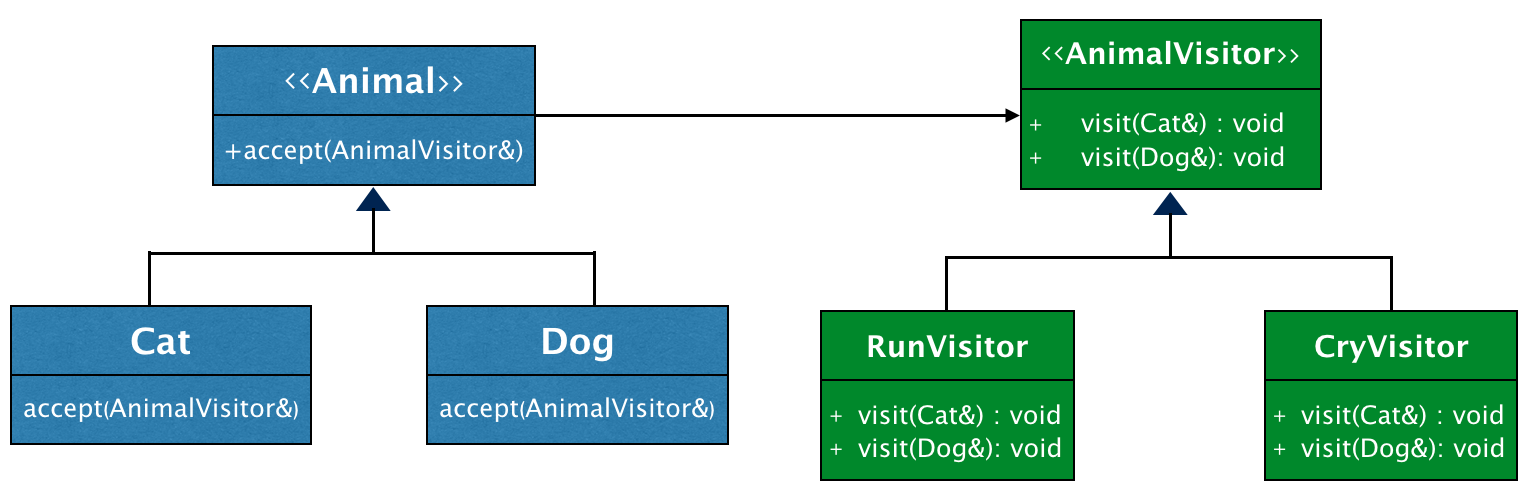
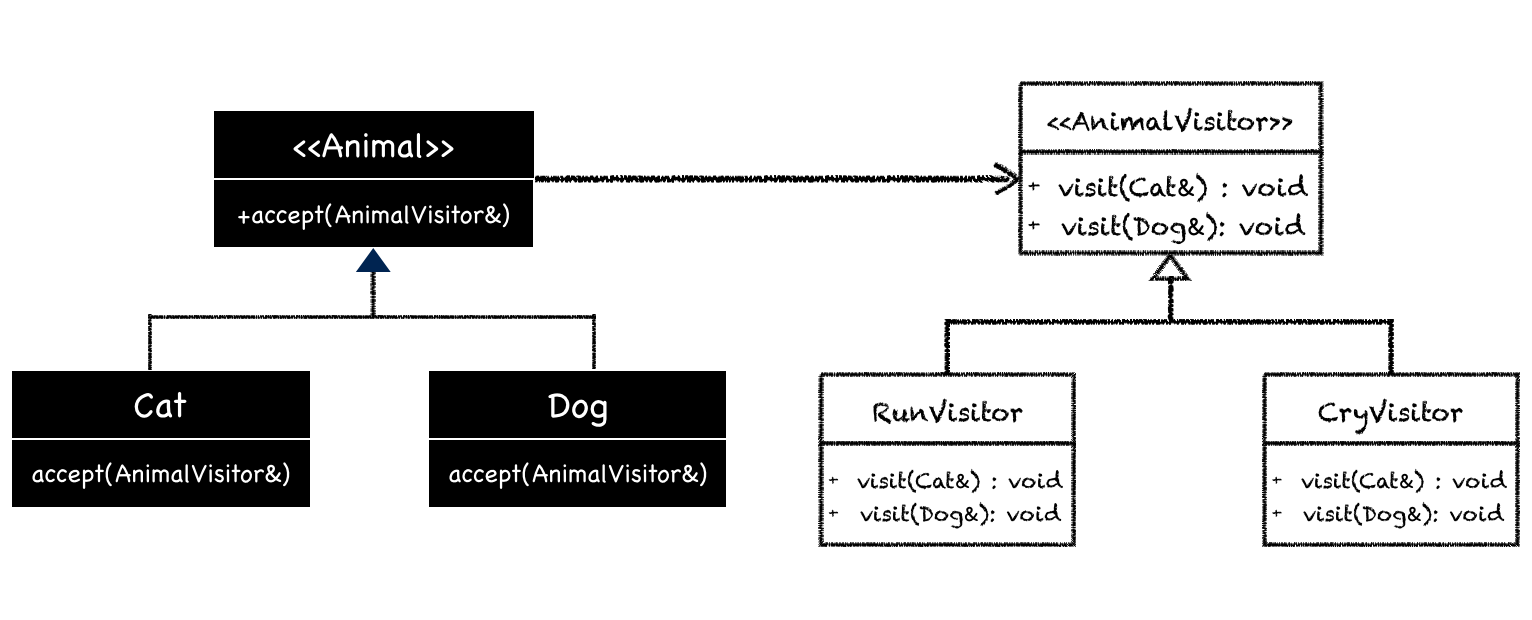
adjust the format of pictures

diff --git a/doc/tlp.md b/doc/tlp.md
@@ -4,20 +4,20 @@
 
 ## 前言
 
-熟悉C\++的程序员都知道，C\++是一门多范式编程语言，支持面向过程、面向对象、泛型编程以及函数式编程范式。然而提到C\++模板元编程，在很多人心里这却似乎是C\++里的一种黑魔法：它很难学习，一旦进入这个领域曾经那些熟悉的东西（if，for...）都不再灵验；它很强大，但现实中却鲜见有人用它来解决实际问题，除过偶尔在一些编码练习中被某些C\++狂热粉当做奇淫巧技拿出来秀秀肌肉。
+熟悉C\++的程序员都知道，C\++是一门多范式编程语言，支持面向过程、面向对象、泛型编程以及函数式编程范式。然而提到C\++模板元编程，在很多人心里这却是C\++里的黑魔法：它很难学习，一旦进入这个领域曾经那些熟悉的东西（if，for...）都不再灵验；它很强大，但现实中却鲜见有人用它来解决实际问题，除过偶尔在一些编码练习中被某些C\++狂热粉当做奇淫巧技拿出来秀秀肌肉。
 
 其实模板元编程是C\++所支持的一种非常强大的计算能力，它是使用C\++开发高质量库和框架所离不开的一项武器。
 
-掌握C\++模板元编程，可以帮助你做到：
+掌握C\++模板元编程，至少可以在以下场合帮助到你：
 
 - 实现高扩展性，并且兼具高性能的库
-- 实现更加灵活且易于使用的框架
+- 实现灵活且易于使用的框架
 - 实现基于C\++的内部DSL（Domain Special Language）
-- 帮助更好地理解并使用模板和泛型编程，更深入地使用C\++ STL库的一些高级特性
+- 帮助更深入地理解并使用模板和泛型编程，更好地去使用C\++ STL库中的一些高级特性
 
-如果你是一个C\++的库或框架的开发者，了解和掌握一些模板元编程的知识，可能会让你的作品更易于扩展、拥有更易用的接口，甚至更高的运行时效率。而即使你只使用C\++设计和开发应用程序，了解模板元编程也会帮助你更好的去使用STL库的各种特性，甚至帮助你的局部设计做的更加漂亮。
+如果你是一个C\++的库或框架的开发者，了解和掌握一些模板元编程的知识，可以让你的作品更易于扩展、拥有更易用的接口，甚至更高的运行时效率。而即使你只使用C\++设计和开发应用程序，了解模板元编程也会帮助你更好的去使用STL库的各种特性，甚至帮助你的局部设计做的更加漂亮。
 
-实际上C\++模板元编程技术已经渗透在我们日常使用的各种库和框架中，例如STL库以及各种xUnit测试框架和mock框架。可以说，模板元编程是中级C\++程序员迈向高级的必经之路！
+实际上C\++模板元编程技术已经渗透在我们日常使用的各种库和框架中，例如我们最常使用的STL库以及各种xUnit测试框架和mock框架。可以说，模板元编程是中级C\++程序员迈向高级的必经之路！
 
 然而现实是，C\++模板元编程的学习之旅却并不平坦。
 
@@ -29,24 +29,24 @@
 	介绍C++模板知识最全面的一本书，涉及到了模板各个方面的基础知识和应用技巧。由于元编程并不是此书重点，所以仅有短短一章列举了一些利用模板元编程做数值计算的例子。现实中模板元编程很少用来做数值计算，更多被用来做类型计算和代码生成，书中却涉及甚少。
 
 - 《Modern C\++ Design》
-	介绍如何使用模板进行C\++高阶设计的一本书。介绍了`TypeLists`的概念，作为一种重要的编译时数据结构，是元编程的基础。但遗憾作者并没有显示的提出元编程的概念，也没有对C\++编译时运算特征进行总结和提炼。最后由于此书基于的C\++ 98标准对于模板以及编译期类型计算支持上的欠缺，书中介绍的不少实现比较迂回复杂。
+	介绍如何使用模板进行C\++高阶设计的一本书。介绍了`TypeLists`的概念，作为一种重要的编译时数据结构，是元编程的基础。但遗憾作者并没有明确的提出元编程的概念，也没有对C\++编译时的运算特征进行总结和提炼。最后由于此书基于的C\++ 98标准对于模板以及编译期类型计算支持上的欠缺，书中介绍的不少实现比较迂回复杂。
 
 - 《C\++模板元编程》
-	正式介绍C\++模板元编程的一本书，引入了元函数的概念，对基于模板的函数式计算进行了规范化，发挥了编译期元函数可组合的优势。遗憾的是，此书只能算是boost中模板元编程库（mpl）的用户手册，基本上是在讲mpl库的用户接口和使用方法，没有涉及库的实现细节。现实中我们采用元编程解决问题，一般不会引用boost这么重的库，往往只会在某一局部借鉴类似的设计技巧。所以对于元编程来说，授之以渔的意义远大于授之以鱼。另外由于boost mpl库中用了大量C\++预处理期代码生成技术，导致想通过看mpl的源码掌握模板元编程的人基本是会陷入到一堆宏中，对于学习元编程增加了非常多的干扰因素。
+	正式介绍C\++模板元编程的一本书，引入了元函数的概念。借助对基于模板的函数式计算的规范化，发挥了编译期元函数可组合的优势。遗憾的是，此书只能算是boost中模板元编程库（mpl）的用户手册，基本上是在讲mpl库的用户接口和使用方法，没有涉及库的实现细节。现实中我们采用元编程解决问题，一般不会引用boost这么重的库，往往只会在某一局部借鉴类似的设计技巧。所以对于元编程来说，授之以渔的意义远大于授之以鱼。另外由于boost mpl库中用了大量C\++预处理期代码生成技术，导致通过阅读mpl源码去掌握模板元编程的同学一上来就陷入到一堆宏中，对于学习元编程增加了非常多的干扰因素。
 
-基于以上原因，我使用C\++11实现了一个C\++模板元编程的库：[TLP ](https://github.com/MagicBowen/tlp)[(https://github.com/MagicBowen/tlp)]()，然后再通过这一系列文章结合TLP库中的代码示例来为大家介绍C\++模板元编程的各方面知识。
+基于以上原因，我基于C\++11标准实现了一个模板元编程的基础库：[TLP ](https://github.com/MagicBowen/tlp)[(https://github.com/MagicBowen/tlp)]()，然后再通过本手册来为大家全面介绍C\++模板元编程的基本知识和使用技巧。
 
 TLP库包含以下内容：
 
 - 基本的编译期数据类型和算法；
 - 基本的编译期数据结构TypeList，以及针对它的各种基本算法函数：length、append、erase、replace、unique、belong、comb...
 - 基于TypeList的各种高阶函数，如 any，all，sort、transform、map，filter，fold...
-- 进行模板元编程的常用辅助函数，如 IsEqual，IfThenElse，Print...
-- 一些有用的编译期Traits工具；
-- 进行编译期函数定义的各种辅助工具；
-- 一个面向模板元编程的测试框架，所有的测试用例执行在C\++的编译期，我们使用它来对TLP进行测试；
+- 辅助模板元编程的常用函数，如 IsEqual，IfThenElse，Print...
+- 一些有用的编译期Traits工具，如 IsBaseOf，IsConvertible，IsBuiltIn...
+- 一些常用的元编程模式，如 “元函数转发”等；
+- 一个面向模板元编程的测试框架，用它描述的所有测试用例执行在C\++的编译期，我们使用它来对TLP进行测试；
 
-除此之外，TLP库中还包含了如下演示如何在现实中使用TLP库进行模板元编程的示例代码，分别是：
+除此之外，TLP库中还包含了如下示例代码，用来演示如何在现实中应用模板元编程和TLP库：
 
 - 示范了如何使用模板元编程做纯编译期计算，完成一个自动数三角形的程序；
 - 示范了如何使用模板元编程技术来实现代码生成，自动创建visitor设计模式；
@@ -54,17 +54,17 @@ TLP库包含以下内容：
 
 上面提到的TypeList以及使用代码生成来创建visitor设计模式的原创者是《Modern C\++ Design》的作者Andrei Alexandrescu。在TLP中我用C\++11对TypeList及其算法进行了改写，并进行了高阶函数的扩展。得益于C\++11标准对模板元编程的更好支持，新的实现比起原来的更加清晰和简洁。
 
-示例代码中利用模板元编程创建有限状态机DSL的例子来自于《C++模板元编程》一书，为了更好的展示其实现，我用TypeList对其进行了改写。
+示例代码中利用模板元编程创建有限状态机DSL的设计最初来自于《C++模板元编程》一书，为了让其更好被理解，我对例子以及代码进行了较大的改编。
 
-除了上面的例子，本文还介绍了我自己开发的面向C\++模块或子系统级别的FT（Functional Test）测试框架[dates](https://github.com/MagicBowen/dates)，重点展示了它如何使用模板元编程来进行类型萃取、类型选择以及类型校验，最终使得框架变得更易用、更高效以及更安全。这些技巧可以帮助到大家更好地使用模板元编程去解决现实问题。
+除了上面的例子，本手册中还介绍了我自己开发的针对C\++模块和子系统FT（Functional Test）级别的测试框架[dates](https://github.com/MagicBowen/dates)，展示了它如何使用模板元编程来进行类型萃取、类型选择以及类型校验，最终使得框架变得更易用、更高效以及更安全。这些技巧可以帮助到大家更好地使用模板元编程去解决现实问题。
 
-最后，TLP库自身的测试通过一个原创的C\++模板元编程测试框架。该框架专门针对C\++编译期计算进行测试，它的用法和常见的xUnit测试框架类似，但有趣的是使用该框架所描述的所有测试用例的执行发生在C\++编译期。本文会专门介绍该框架的一些实现细节。
+最后，TLP库自身的测试通过一个原创的C\++模板元编程测试框架。该框架专门针对C\++编译期计算进行测试，它的用法和常见的xUnit测试框架类似，但有趣的是使用该框架描述的所有测试用例的执行发生在C\++编译期。本文会专门介绍该框架的一些实现细节。
 
 C\++模板元编程当年被提出来的时候，函数式编程还没有像今天这样被更多的人所了解和接受，当时的C\++标准和编译器对模板和编译期计算的支持也非常有限。然而到了今天，很多事情发生了变化！本文的读者最好能够有一些函数式编程的基础，了解C\++模板的基本用法，熟悉一些C\++11标准的内容。当然文中所有用的到模板技术、C\++11标准和涉及到的函数式编程概念也都会专门介绍和说明。
 
-如果你从来没有接触过C\++模板元编程，那么最好从一开始就把它当做一门全新的语言去学习，从头掌握C\++中这种不一样的计算模型和语法。这种新的语言和我们熟识的运行期C\++的语法和计算模型有很大的差异，但它的优势在于能和运行期C\++紧密无缝地结合在一起，无论是在提高程序可扩展性还是提高程序运行效率上，都能创造出非常不可思议的效果来。希望通过这篇文章，可以让更多的人掌握C\++模板元编程这一设计利器，在适合的场合下以更有效、更酷的方式去解决问题。
+如果你从来没有接触过C\++模板元编程，那么最好从一开始就把它当做一门全新的语言去学习，从头掌握C\++中这种不一样的计算模型和语法。这种新的语言和我们熟识的运行期C\++在语法和计算模型上都有较大的差异，但它的优势在于能和运行期C\++紧密无缝地结合在一起，无论是在提高程序可扩展性还是提高程序运行效率上，都能创造出非常不可思议的效果来。希望通过这篇文章，可以让更多的人掌握C\++模板元编程这一设计利器，在适合的场合下以更有效、更酷的方式去解决问题。
 
-> 本文中出现的代码片段，如果在注释中给出了TLP库中对应文件路径，则都是TLP库中的源码，其它的都是为了文章需要所构造的临时代码。另外，为了减少噪音，文中所示TLP库中的代码均没有加命名空间，阅读文章和TLP库源码时请注意区分。
+> 本文中出现的代码片段，如果在注释中给出了TLP库中对应文件路径，则都是TLP库中的源码。除此之外的其它代码则是为了文章需要所构造的临时代码。另外，为了减少干扰，本文中所示TLP库中的代码均没有加命名空间，阅读文章和TLP库源码时请注意区分。
 
 ## 模板的基本知识
 
@@ -2534,7 +2534,11 @@ template<typename T> struct Holder { T field; };
 using Aggregator = __scatter_inherits(__type_list(int, short, char), Holder);
 ~~~
 
-如上我们通过`__scatter_inherits()`创建了类型`Aggregator`，它继承自`Holder<int>`、`Holder<short>`、`Holder<char>`（见下面图示）。所以相当于`Aggregator`包含三个类型分别是int、short和char的成员变量。可以这样调用它的成员变量：
+如上我们通过`__scatter_inherits()`创建了类型`Aggregator`，它多重继承自`Holder<int>`、`Holder<short>`、`Holder<char>`（见下面图示）。
+
+![](./pics/aggregator.png)
+
+最终`Aggregator`相当于有三个类型分别是int、short和char的成员变量。可以这样调用它的成员变量：
 
 ~~~cpp
 Aggregator object;
@@ -2542,8 +2546,6 @@ Aggregator object;
 object.Holder<int>::field = 5;
 object.Holder<char>::field = 'a';
 ~~~
-
-![](./pics/aggregator.png)
 
 `__scatter_inherits()`的实现如下：
 
@@ -3279,17 +3281,17 @@ struct FakeSystem : StrictFakeSystem<>
 
 ### 代码生成
 
-假如我们有一组继承体系：
+假如我们已经有了一组继承体系：
 
 ![](./pics/visitor-ori.png)
 
-当我们需要增加一个新的动物mouse，只用新建一个`Mouse`类，让它继承自公共父类`Animal`然后覆写`run`方法即可，不会干扰到别的实现。我们得到了开放封闭原则的好处！
+如果我们要在其中增加一个新的动物mouse，只用新建一个`Mouse`类，让它继承自公共父类`Animal`然后覆写`run`方法即可。得益于对开放封闭原则(OCP)的遵守，老鼠的出现不会惊动到猫狗：）
 
-但是假如我们想要为其增加一个`void cry()`虚接口呢？这时我们就要打开每个类的文件，为其增加这个方法在不同类中的实现。这时我们发现了“散弹式修改”的坏味道。我们希望每次变化来临时，所有的修改都能集中在一起。
+但是假如我们想要为其增加一个`void cry()`虚接口呢？这时我们就要打开每个类的文件，为其编写`cry`的具体实现。这时我们发现了“散弹式修改”的坏味道，一声cry让所有的动物都鸡飞狗跳。我们希望还能像之前那样，当变化来临时所有的修改都能集中在一起。
 
-没有绝对的开放封闭，只有面临具体变化的开放封闭。如上的继承体系面对动物种类变更时保持了开放封闭，而面临新的虚接口变更时，却要大范围修改。假如我们的继承体系很稳定，子类的种类发生变化的可能性很低，但是虚接口的变化可能性却很大，那么如何设计才能继续保持开放封闭性？
+然而事实是：没有绝对的开放封闭，只有面临具体变化的开放封闭！如上的继承体系面对动物种类变更时保持了开放封闭，而面临新的虚接口变更时，却要大范围修改。假如我们的继承体系很稳定，子类的种类发生变化的可能性很低，但是虚接口的变化可能性却很大，那么如何设计才能继续保持开放封闭性？
 
-我们手上有一个不需要的优势：方便地添加新的子类；同时也拥有一个令人烦恼的缺点：难以添加新的虚函数。这正是Visitor设计模式用武之地，它将所有的虚接口放在一起重新组织出了一个继承体系，然后采用双向派发的技术让两个继承体系组合在一起使用。它将原有继承体系增加虚接口的行为变成了为一个新的继承体系增加一个类型。Visitor以我们“不需要的优势”换取我们“需要的优势”，使用Visitor可以让我们方便地为原有继承体系增加新的虚函数，但同时也造成原有继承体系难以添加新的子类。
+可以发现，我们手里有一个不需要的优势：方便地添加新的子类；同时也拥有一个令人烦恼的缺点：难以添加新的虚函数。而这正是Visitor设计模式的用武之地，它将所有的虚接口放在一起重新组织出了一个继承体系，然后采用双向派发的技术让两个继承体系组合在一起使用。它将为原有继承体系增加虚接口的行为变成了为一个新的继承体系增加一个类型。Visitor以我们“不需要的优势”换取我们“需要的优势”，使用Visitor可以让我们方便地为原有继承体系增加新的虚函数，但同时也造成原有继承体系难以添加新的子类。
 
 上例使用Visitor设计模式修改后，类的关系如下：
 
@@ -3973,14 +3975,14 @@ public:
 
 ## 总结
 
-当1994年，Erwin Unruh在C\++标准委员会上演示了通过C\++模板在编译期计算素数的程序后，C\++模板元编程的能力就已经被人们认识到了。但是由于函数式编程和广大程序员所熟悉的命令式编程存在巨大差异，以及C\++标准和C\++编译器对模板元编程支持上的很多漏洞，导致了模板元编程的代码在一般程序员的眼中十分的晦涩难懂。所以随后的很多年，模板元编程都被大多数C\++程序员认为是一种奇技淫巧。
+当1994年，Erwin Unruh在C\++标准委员会上演示了通过C\++模板在编译期计算素数的程序后，C\++模板元编程的能力就已经被人们认识到了。但是由于函数式编程和广大程序员所熟悉的命令式编程存在着较大差异，以及C\++标准和C\++编译器对模板元编程支持上的很多漏洞，导致了模板元编程的代码在一般程序员的眼中十分的晦涩难懂。所以随后的很多年，模板元编程都被大多数C\++程序员认为是一种奇技淫巧。
 
 虽然如此，由于人们对计算机程序的表达力和性能的同时追求，C\++模板元编程的使用还是渗透在非常多优秀的框架和程序库中。往往你看一个漂亮的C\++库或者框架的代码，最后都会惊奇的发现，为这个框架或者库最后漂亮点睛的那么一点核心代码，都离不开模板元编程的身影。因为模板元编程的编译期计算和代码生成的能力，可以让你的程序更加的灵活、简洁、安全并且高效。
 
-正是如此，C\++标准库STL中就使用了非常多的模板元编程技巧，而且也给程序员提供了很多好用的模板元编程工具，例如我们之前提到的丰富的`type_traits`工具集。而boost中的mpl，则是一个完全为模板元编程打造的库。它实现了全面的用于模板元编程的数据结构和算法，以及各种常用的元编程模式。Mpl甚至还实现了一套编译期的lambda架构，用于在模板元编程中使用编译期的lambda表达式。但是遗憾的是，mpl的实现过程中同时大量的使用了boost的预处理元编程技术，导致代码非常的晦涩难懂，对想通过阅读mpl源码来学习模板元编程的同学增加了非常大的噪音和干扰。
+正是如此，C\++标准库STL中就使用了非常多的模板元编程技巧，而且也给程序员提供了很多好用的模板元编程工具，例如我们之前提到的丰富的`type_traits`工具集。而boost中的mpl，则是一个完全为模板元编程打造的库。它实现了完备的编译期数据结构和算法，以及各种常用的元编程模式。Mpl甚至还实现了一套编译期的lambda架构，用于在模板元编程中使用编译期的lambda表达式。但是遗憾的是，mpl的实现过程中同时大量的使用了boost的预处理元编程技术，导致代码非常的晦涩难懂，对想通过阅读mpl源码来学习模板元编程的同学增加了非常大的噪音干扰。
 
-自从C\++11标准发布后，C\++语言和主流编译器对模板以及编译期计算的支持已经逐渐完备，同时标准修复了不少漏洞，使得模板元编程的代码可以写的更加地简单自然。为此，我基于C\++11标准实现了一套针对C\++模板元编程的基础库TLP。这个库的主要目的是为了让大家通过它来学习C\++模板元编程，所以我在写的过程中不断地追求代码的表达力和清晰性。为了能够通过测试用例来展示库组件的用法，我专门编写了一个面向模板元编程进行编译期测试的xUnit测试框架，TLP库中的所有组件都经过了该测试框架的测试。
+自从C\++11标准发布后，C\++语言和主流编译器对模板以及编译期计算的支持已经逐渐完备，同时标准修复了不少漏洞，使得模板元编程的代码可以写的更加地简单自然。为此，我基于C\++11标准实现了一套针对C\++模板元编程的基础库TLP。这个库的主要目的是帮助大家更容易地学习C\++模板元编程，正因如此我在写的过程中不断地追求代码的表达力和清晰性。为了能够通过测试用例来展示库组件的用法，我专门编写了一个面向模板元编程进行编译期测试的xUnit测试框架，TLP库中的所有组件都经过了该测试框架的测试。
 
-虽然你软件可以直接依赖整个TLP库，但是对于C\++这么一门让程序员最求极致的语言，学会TLP中模板元编程的设计技巧，然后按需所取地去解决自己的问题显得更为实际。而且模板元编程的特点决定了它不应该出现在你的软件的每一处，而应该只是在最核心地方去解决一些关键的问题。为了让大家能够更好地学习TLP库中的各个组件的设计，我写了这篇手册，介绍了模板元编程的基础知识以及TLP库中关键组件的实现技巧，最后还列举了模板元编程的几个应用。在这个手册中，我提到了很多对编程语言和软件设计的理解，希望也会对大家有用。
+虽然你的软件可以直接依赖整个TLP库，但是对于C\++这么一门让程序员最求极致的语言，学会TLP中模板元编程的设计技巧，然后按需所取地去解决自己的问题显得更为实际。而且模板元编程的特点决定了它不应该出现在你软件中的每一处，正常情况下只是在最核心地方去解决一些关键的问题。所以你应该把TLP库当做一个素材库，学习并掌握里面每个组件和算法的设计，学会针对你的具体问题采用类似的设计技巧去解决。为了让大家能够更好地学习TLP库中的代码设计，我写了这篇手册，介绍了模板元编程的基础知识以及TLP库中关键组件和算法的实现技巧，最后还列举了模板元编程的一些具体应用。在这个手册中，我提到了很多对编程语言和软件设计的理解，希望也会对大家有用。
 
-正如我最开始所说，模板元编程是中级C\++程序员迈向高级的必经之路，希望本文以及TLP库中的代码对大家更好地学习模板元编程起到帮助，使得我们可以用C\++更有效、更酷的方式去解决问题。
+正如我最开始所说，模板元编程是中级C\++程序员迈向高级的必经之路，希望本文以及TLP库中的代码对大家更好地学习模板元编程起到帮助，使得我们可以在C\++中以一种更有效、更酷的方式去解决问题。
